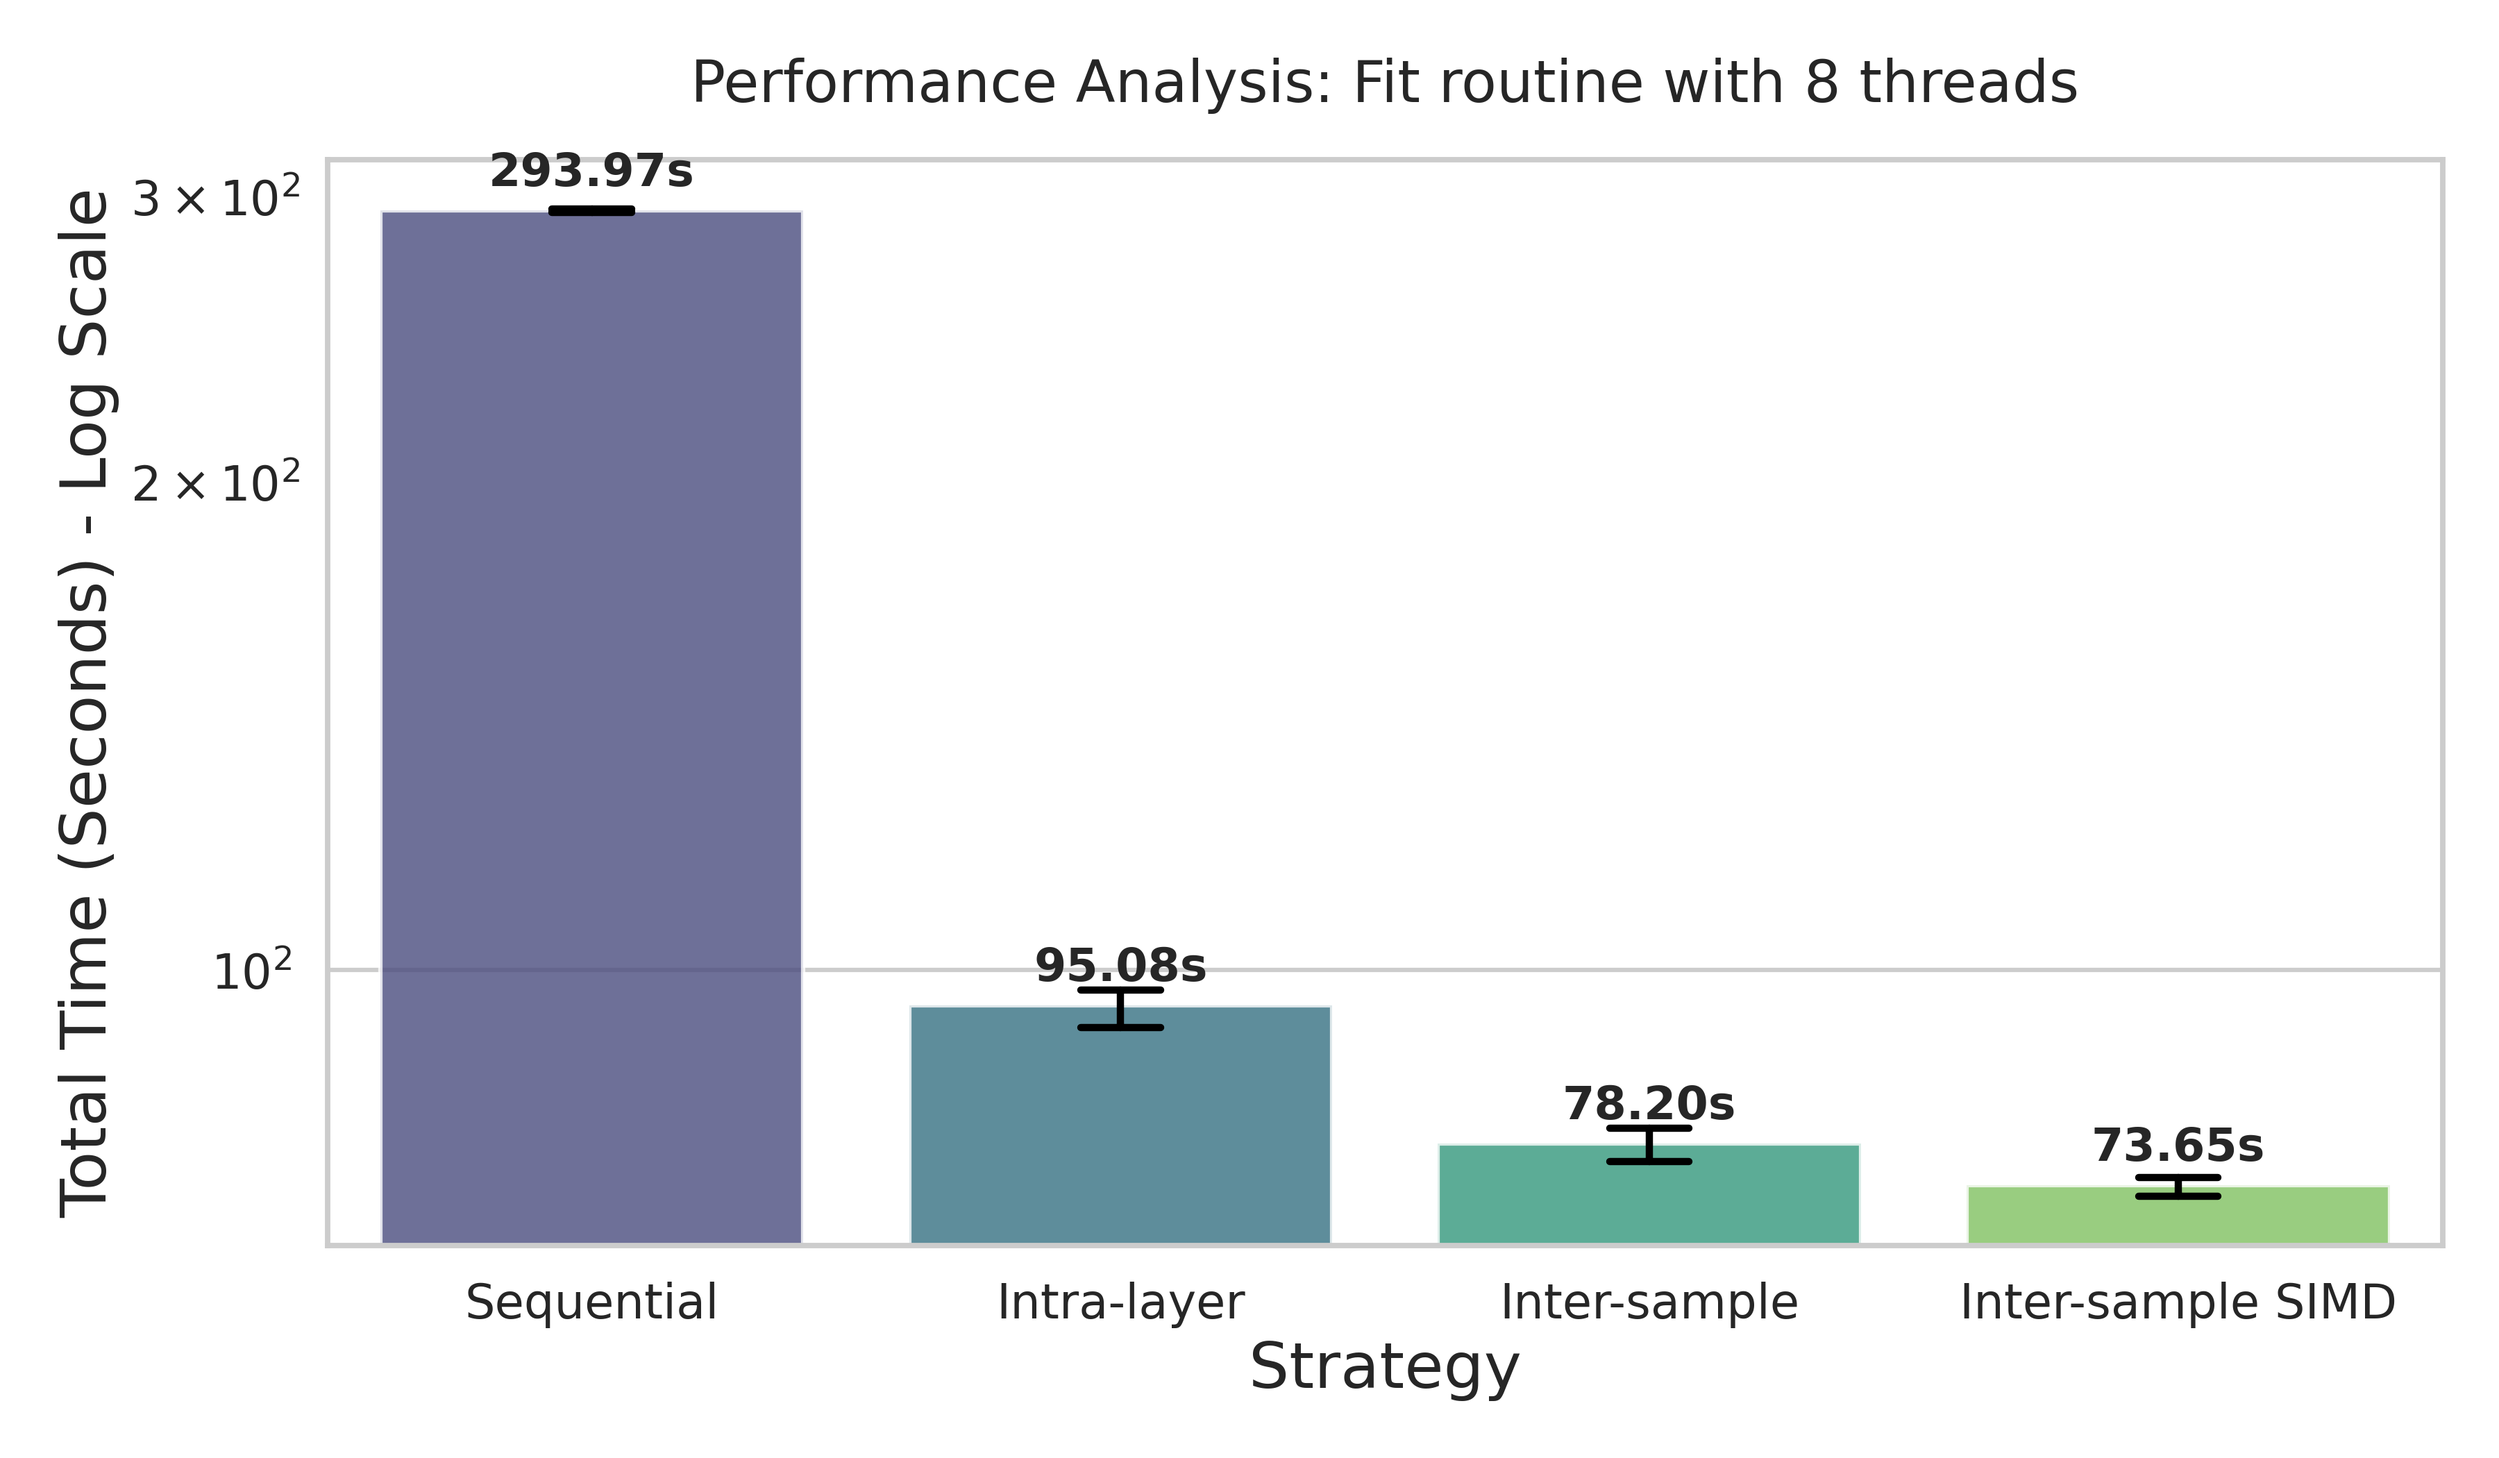
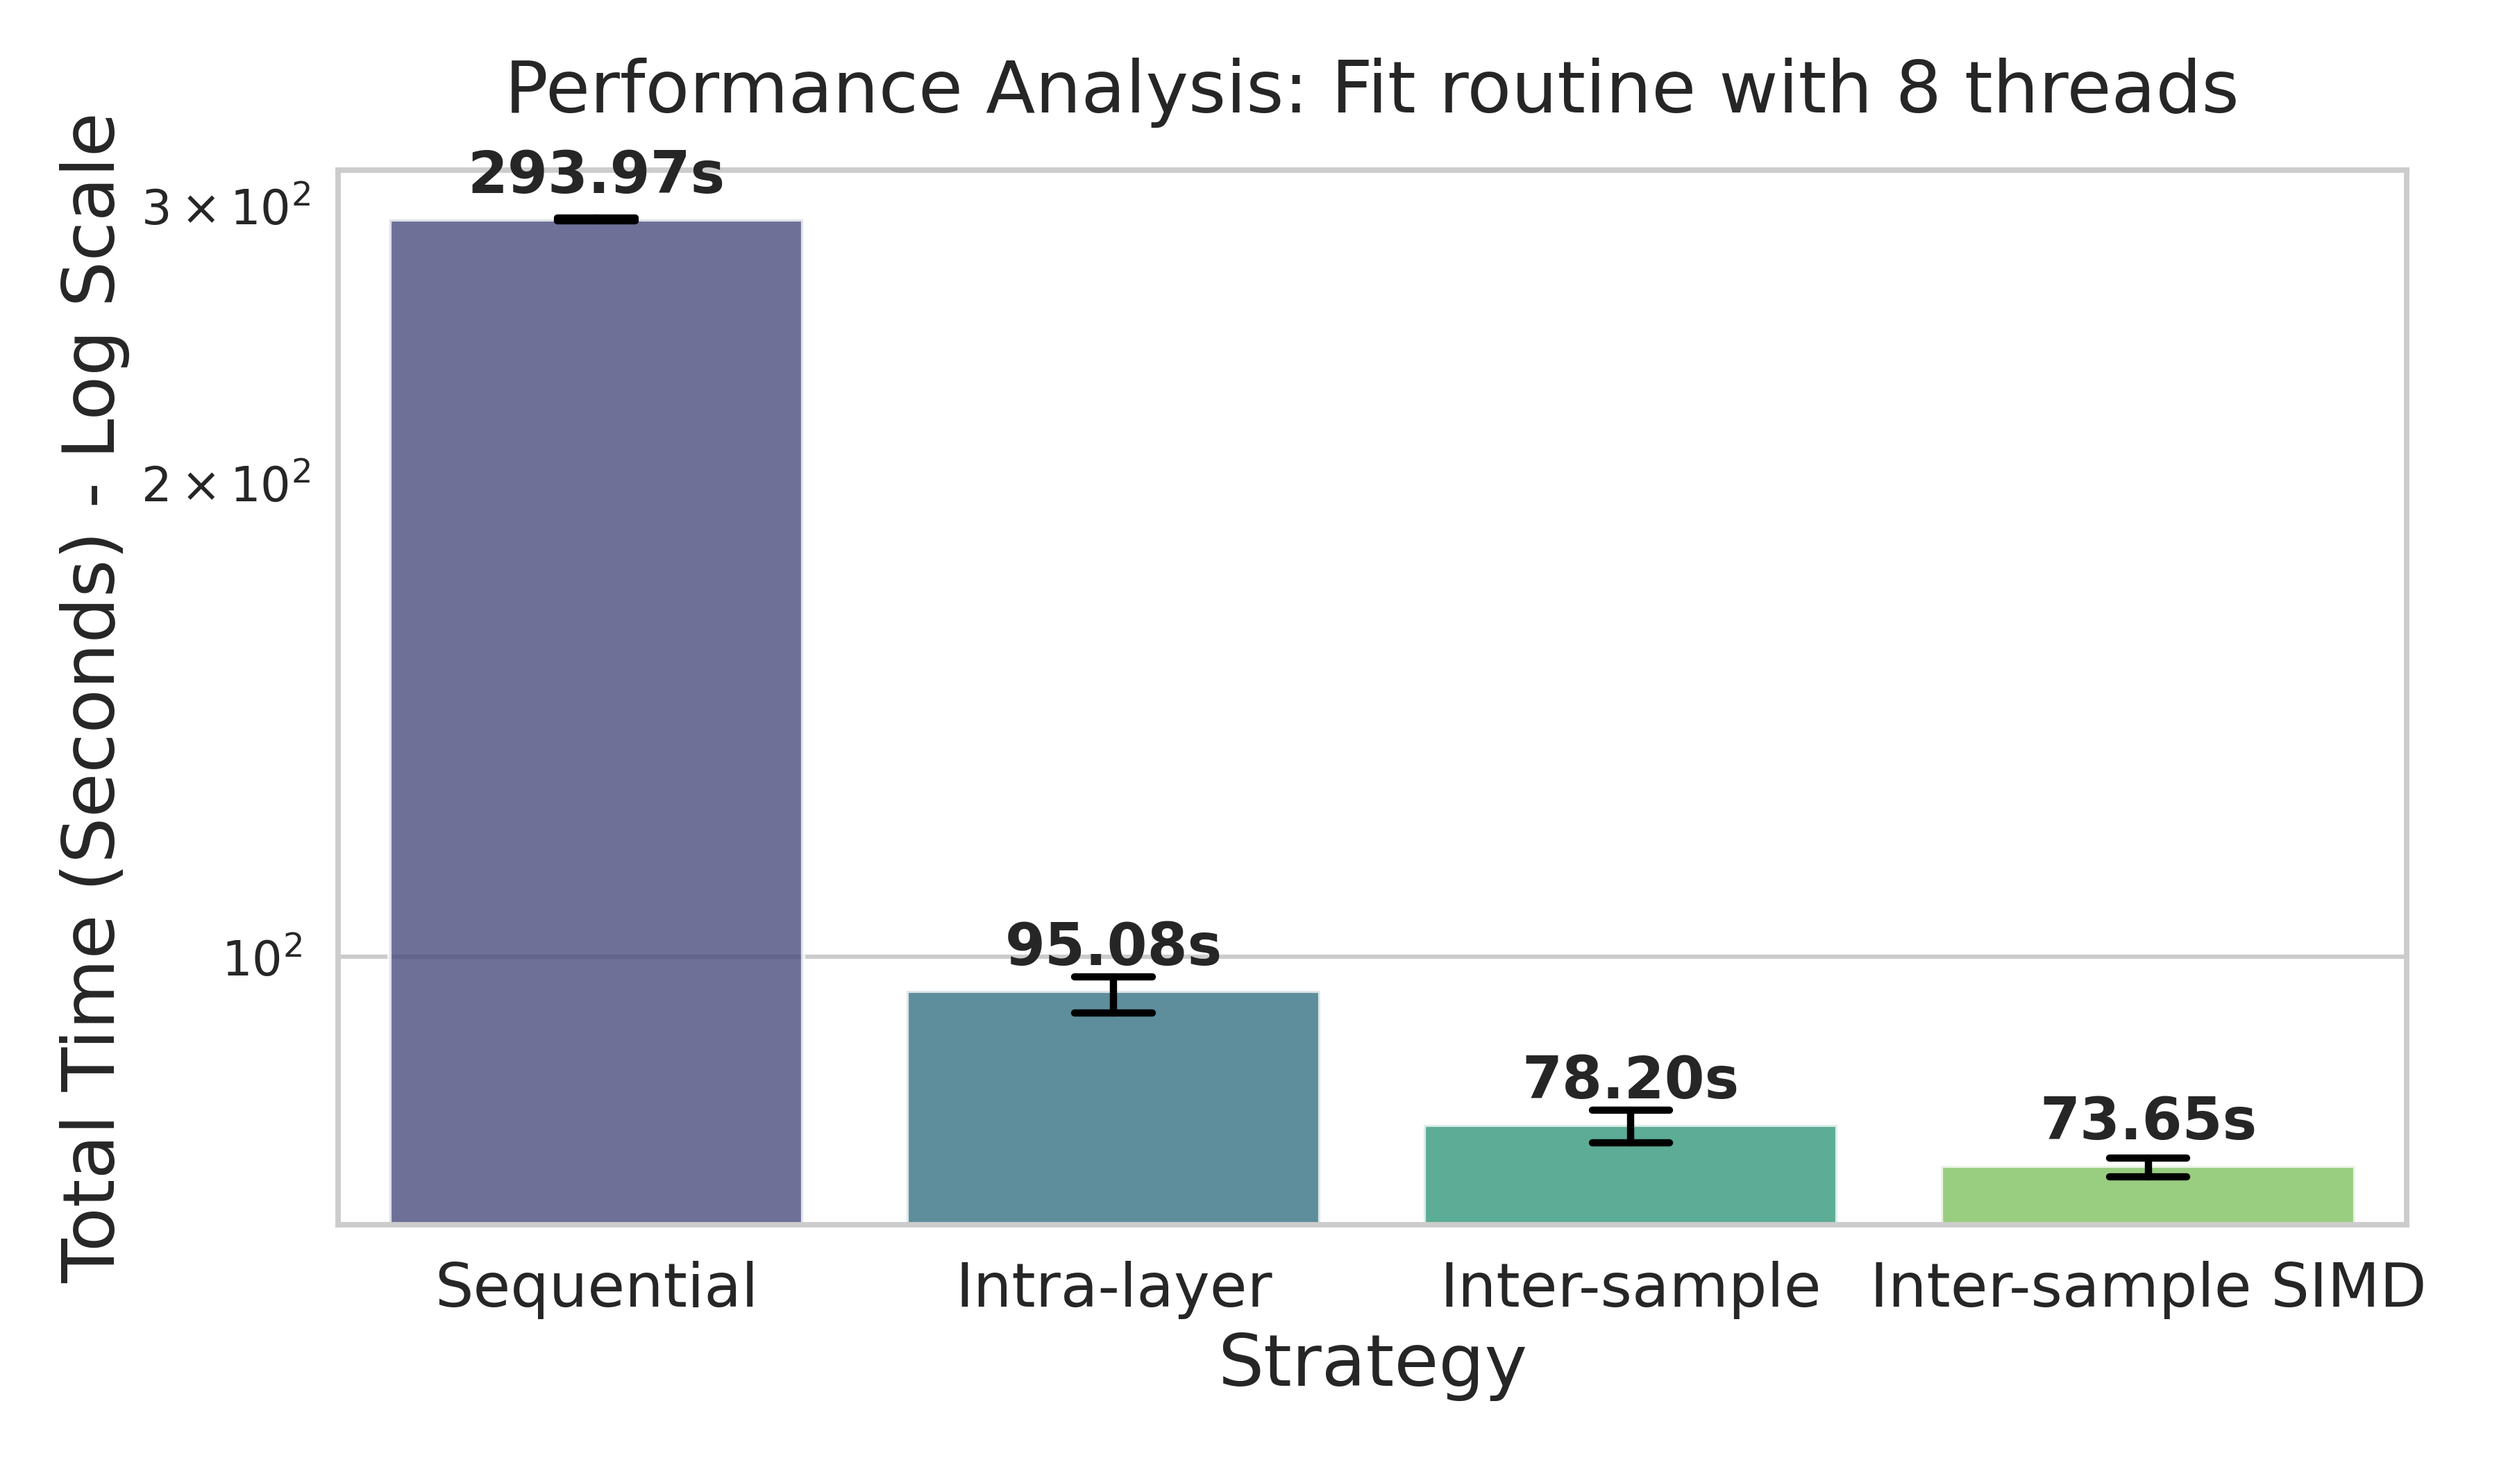
image enhancement

Changed region(s): [[0.0311, 0.031, 0.9644, 0.9595], [0.3111, 0.619, 0.9956, 0.7119], [0.0, 0.3714, 0.0622, 0.8667]]

diff --git a/scripts/chart_3.py b/scripts/chart_3.py
@@ -5,7 +5,7 @@ import os
 
 def generate():
     results_dir = './results/fit8'
-    output_path = './images/plots/chart_3.png'    
+    output_path = './plots/chart_3.png'    
 
     if not os.path.exists(results_dir):
         print(f"Error: Directory '{results_dir}' not found.")
@@ -30,11 +30,13 @@ def generate():
     plt.title(f'Accuracy Analysis: Fit routine', fontsize=25, pad=20)
     plt.ylabel('Validation Accuracy', fontsize=25)
     plt.xlabel('Training Session (Instance)', fontsize=25)
-    plt.xticks(range(10))
+    plt.xticks(range(10), fontsize=25)
+    plt.yticks(fontsize=22)
     
     plt.ylim(0.85, 1.0) 
 
-    plt.legend(title='Strategy', bbox_to_anchor=(1.05, 1), loc='upper left')
+    plt.legend(title='Strategy', loc='lower right', 
+               fontsize=22, title_fontsize=25)
     plt.tight_layout()
     plt.savefig(output_path, dpi=300)
     print(f"generated: {output_path}")

diff --git a/scripts/chart_4.py b/scripts/chart_4.py
@@ -30,15 +30,17 @@ def generate():
 
     plt.yscale('log')
 
-    plt.title(f'Performance Analysis: Fit under different thread numbers', fontsize=20, pad=20)
-    plt.ylabel('Total Time (Seconds) - Log Scale', fontsize=22)
-    plt.xlabel('Strategy', fontsize=22)
+    plt.title(f'Performance Analysis: Fit under different thread numbers', fontsize=25, pad=20)
+    plt.ylabel('Total Time (Seconds) - Log Scale', fontsize=25)
+    plt.xlabel('Strategy', fontsize=25)
+
+    plt.xticks(fontsize=18)
 
     for p in ax.patches:
         h = p.get_height()
         if h > 0:
             ax.annotate(f'{h:.2f}s', (p.get_x() + p.get_width() / 2., h),
-                        ha='center', va='bottom', fontsize=16, fontweight='bold',
+                        ha='center', va='bottom', fontsize=20, fontweight='bold',
                         xytext=(0, 10), textcoords='offset points')
 
     plt.tight_layout()

diff --git a/scripts/chart_2.py b/scripts/chart_2.py
@@ -33,15 +33,17 @@ def generate():
 
     plt.yscale('log')
 
-    plt.title(f'Performance Analysis: Fit routine with 8 threads', fontsize=20, pad=20)
-    plt.ylabel('Total Time (Seconds) - Log Scale', fontsize=22)
-    plt.xlabel('Strategy', fontsize=22)
+    plt.title(f'Performance Analysis: Fit routine with 8 threads', fontsize=25, pad=20)
+    plt.ylabel('Total Time (Seconds) - Log Scale', fontsize=25)
+    plt.xlabel('Strategy', fontsize=25)
+
+    plt.xticks(fontsize=21)
 
     for p in ax.patches:
         h = p.get_height()
         if h > 0:
             ax.annotate(f'{h:.2f}s', (p.get_x() + p.get_width() / 2., h),
-                        ha='center', va='bottom', fontsize=16, fontweight='bold',
+                        ha='center', va='bottom', fontsize=20, fontweight='bold',
                         xytext=(0, 5), textcoords='offset points')
 
     plt.tight_layout()
